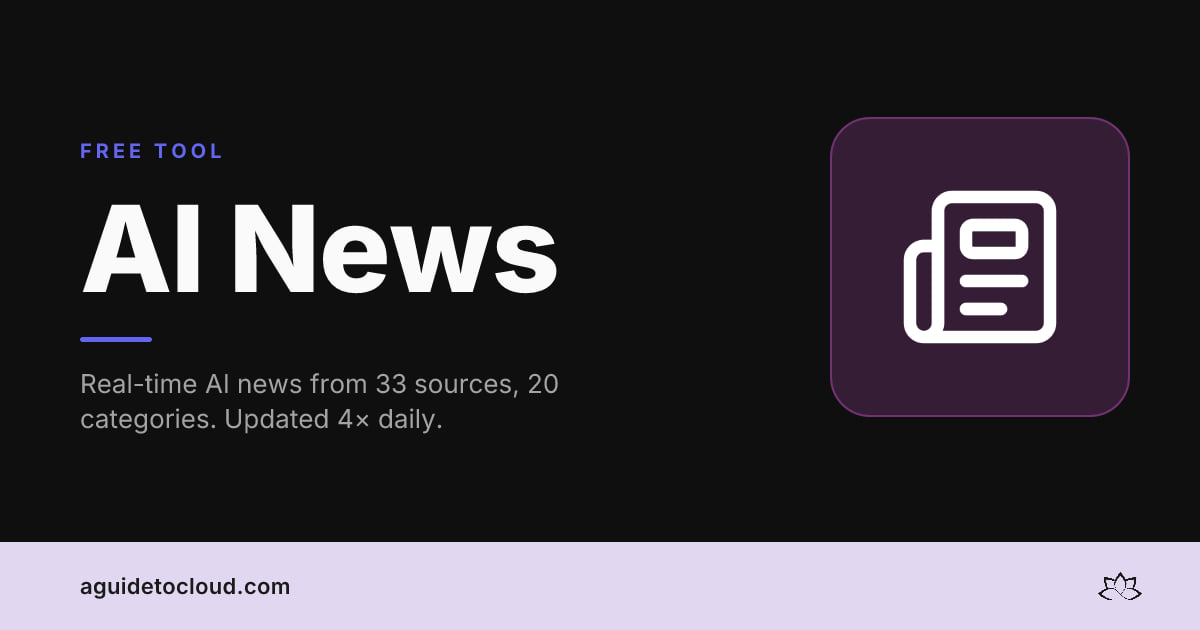
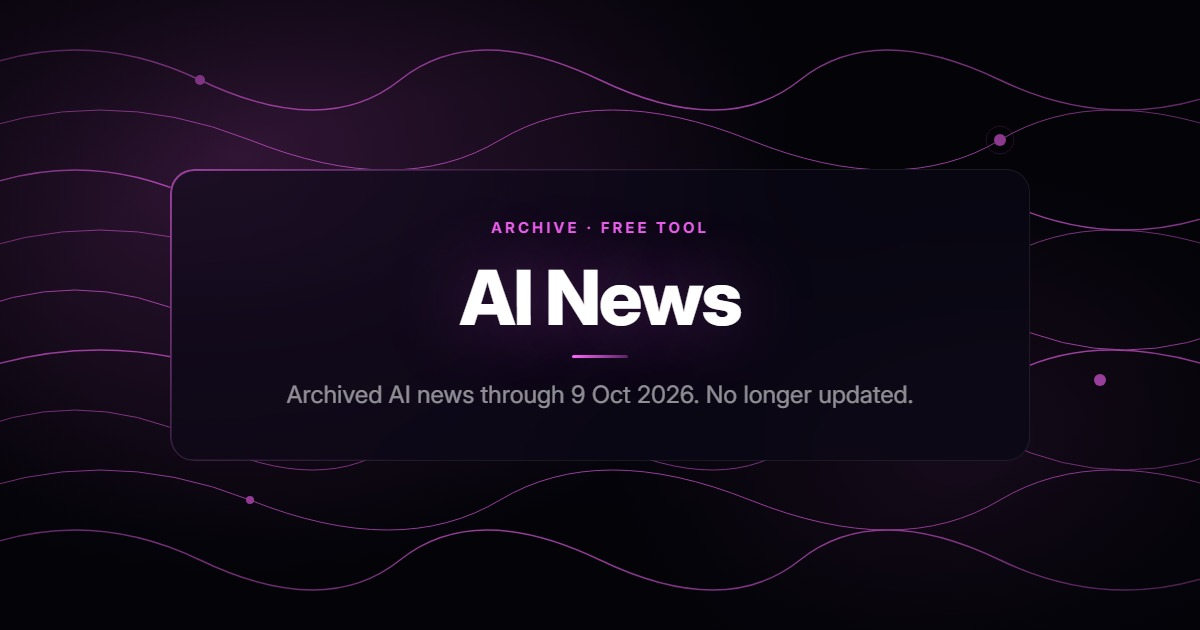
Retire AI News feed and archive historical content
Copilot-Session: 8176c5ff-8d9a-497d-b808-e93973163698

diff --git a/static/js/ainews.js b/static/js/ainews.js
@@ -47,7 +47,7 @@ document.addEventListener('DOMContentLoaded', async function () {
     } catch (e) {
       // If weekly/monthly not available yet, fall back to daily
       if (view !== 'daily') {
-        grid.innerHTML = '<p style="color: var(--text-muted); text-align: center; grid-column: 1 / -1; padding: 3rem;">No ' + view + ' data available yet — showing today\'s news instead.</p>';
+        grid.innerHTML = '<p style="color: var(--text-muted); text-align: center; grid-column: 1 / -1; padding: 3rem;">The archived ' + view + ' collection could not be loaded. Trying the latest available archive instead.</p>';
         setTimeout(function() { loadView('daily'); }, 1500);
       } else {
         grid.innerHTML = '<div style="color: var(--text-muted); text-align: center; grid-column: 1 / -1; padding: 3rem;"><p>Could not load AI News data.</p><button onclick="location.reload()" style="margin-top:0.8rem;padding:0.4rem 1.2rem;border-radius:8px;border:1px solid var(--neon-cyan);background:rgba(102,255,255,0.08);color:var(--neon-cyan);cursor:pointer;font-weight:600">Retry</button></div>';
@@ -83,7 +83,7 @@ document.addEventListener('DOMContentLoaded', async function () {
     }
 
     if (!data || !data.articles) {
-      grid.innerHTML = '<p style="color: var(--text-muted); text-align: center; grid-column: 1 / -1; padding: 3rem;">No articles available yet.</p>';
+      grid.innerHTML = '<p style="color: var(--text-muted); text-align: center; grid-column: 1 / -1; padding: 3rem;">No archived articles are available.</p>';
       return;
     }
 
@@ -129,10 +129,6 @@ document.addEventListener('DOMContentLoaded', async function () {
 // Init share button directly (no MutationObserver needed — tabs are in DOM from Hugo)
   // [REMOVED: share button — UX audit 2026-04-10]
 
-  // Mark last visit timestamp for "new" badges
-  var lastVisit = localStorage.getItem('ainews_last_visit');
-  window.__ainewsLastVisit = lastVisit ? new Date(lastVisit) : null;
-  localStorage.setItem('ainews_last_visit', new Date().toISOString());
 });
 
 // Microsoft-related categories get unlimited articles, others capped at 10
@@ -197,18 +193,16 @@ function isAiRelated(article) {
   return AI_KEYWORDS.some(function (kw) { return text.indexOf(kw) !== -1; });
 }
 
-function timeAgo(dateStr) {
+function formatPublishedDate(dateStr) {
   if (!dateStr) return '';
-  var now = new Date();
   var then = new Date(dateStr);
-  var diffMs = now - then;
-  var mins = Math.floor(diffMs / 60000);
-  if (mins < 60) return mins + 'm ago';
-  var hours = Math.floor(mins / 60);
-  if (hours < 24) return hours + 'h ago';
-  var days = Math.floor(hours / 24);
-  if (days < 7) return days + 'd ago';
-  return then.toLocaleDateString('en-NZ', { month: 'short', day: 'numeric' });
+  if (isNaN(then.getTime())) return '';
+  return then.toLocaleDateString('en-NZ', {
+    day: 'numeric',
+    month: 'short',
+    year: 'numeric',
+    timeZone: 'Pacific/Auckland'
+  });
 }
 
 function escapeHtml(str) {
@@ -313,7 +307,7 @@ function renderNews(data, view) {
   var breakingArticles = articles.filter(function (a) { return a.is_breaking; });
   if (breakingArticles.length > 0) {
     html += '<div class="ainews-breaking" style="grid-column:1/-1">';
-    html += '<span class="ainews-breaking-label">BREAKING</span>';
+    html += '<span class="ainews-breaking-label">Breaking at the time</span>';
     html += '<ul class="ainews-breaking-list">';
     html += breakingArticles.map(function (a) {
       return '<li><a href="' + escapeHtml(a.url || a.link || '#') + '" target="_blank" rel="noopener noreferrer">' + escapeHtml(decodeEntities(a.title)) + '</a></li>';
@@ -325,7 +319,7 @@ function renderNews(data, view) {
   var briefing = data.briefing;
   if (briefing && briefing.length > 0) {
     html += '<div class="ainews-briefing" style="grid-column:1/-1">';
-    html += '<div class="ainews-briefing-header">Today\'s AI Briefing</div>';
+    html += '<div class="ainews-briefing-header">Archived AI briefing</div>';
     html += '<ul class="ainews-briefing-list">';
     briefing.forEach(function (bullet) {
       html += '<li>' + escapeHtml(decodeEntities(bullet)) + '</li>';
@@ -379,10 +373,10 @@ function renderNews(data, view) {
       html += '<div class="ainews-compact-header">';
       html += '<span class="ainews-compact-cat" data-cat="' + escapeHtml(v.cat) + '">' + v.emoji + ' ' + escapeHtml(v.cat) + '</span>';
       html += '<span class="ainews-compact-title" role="button" tabindex="0">';
-      html += (v.isNew ? '<span class="ainews-new-badge">NEW</span> ' : '') + escapeHtml(v.title);
+      html += escapeHtml(v.title);
       if (entry.related.length > 0) html += ' <span class="ainews-cluster-badge">+' + entry.related.length + ' source' + (entry.related.length > 1 ? 's' : '') + '</span>';
       html += '</span>';
-      html += '<span class="ainews-compact-time">' + v.time + '</span>';
+      html += '<span class="ainews-compact-time">' + v.publishedDate + '</span>';
       html += '<button class="ainews-compact-expand" aria-label="Show details" aria-expanded="' + (i < 10 ? 'true' : 'false') + '">' + (i < 10 ? '▲' : '▼') + '</button>';
       html += '</div>';
       html += '<div class="ainews-compact-detail' + (i < 10 ? ' ainews-detail-open' : '') + '"' + (i < 10 ? '' : ' inert') + '>';
@@ -682,13 +676,12 @@ function getArticleVars(article) {
     source: article.source || '',
     url: article.url || article.link || '#',
     title: decodeEntities(article.title || 'Untitled'),
-    time: timeAgo(article.published),
+    publishedDate: formatPublishedDate(article.published),
     readTime: estimateReadTime(summary + ' ' + (article.why_it_matters || '')),
     favicon: getFaviconUrl(article.url || article.link || ''),
     image: article.image || '',
     logo: getLogoUrl(article.url || article.link || ''),
-    cluster: article.cluster || '',
-    isNew: isNewSinceLastVisit(article.published)
+    cluster: article.cluster || ''
   };
 }
 
@@ -713,7 +706,6 @@ function renderHeroCard(article) {
   return '<a href="' + escapeHtml(v.url) + '" target="_blank" rel="noopener noreferrer" class="ainews-card-hero" data-category="' + escapeHtml(v.cat) + '"' + buildClickAttr(v) + '>' +
     '<div class="ainews-thumb-wrap">' + buildThumbHtml(v) + '</div>' +
     '<div class="ainews-card-body">' +
-    (v.isNew ? '<span class="ainews-new-badge">NEW</span>' : '') +
     '<span class="ainews-cat">' + v.emoji + ' ' + escapeHtml(v.cat) + '</span>' +
     '<h3>' + escapeHtml(v.title) + '</h3>' +
     '<p class="ainews-summary">' + escapeHtml(v.summary) + '</p>' +
@@ -721,7 +713,7 @@ function renderHeroCard(article) {
     '<div class="ainews-meta">' +
       (v.favicon ? '<img src="' + v.favicon + '" alt="" class="ainews-favicon" loading="lazy">' : '') +
       '<span class="ainews-source">' + escapeHtml(v.source) + '</span>' +
-      '<span class="ainews-time">' + v.time + '</span>' +
+      '<span class="ainews-time">' + v.publishedDate + '</span>' +
       (v.readTime ? '<span class="ainews-readtime">' + v.readTime + '</span>' : '') +
     '</div></div>' +
   '</a>';
@@ -733,7 +725,6 @@ function renderCard(article) {
   var extraClass = isRumour ? ' ainews-card-rumour' : '';
   return '<a href="' + escapeHtml(v.url) + '" target="_blank" rel="noopener noreferrer" class="ainews-card' + extraClass + '" data-category="' + escapeHtml(v.cat) + '"' + buildClickAttr(v) + '>' +
     '<div class="ainews-thumb-wrap">' + buildThumbHtml(v) + '</div>' +
-    (v.isNew ? '<span class="ainews-new-badge">NEW</span>' : '') +
     '<span class="ainews-cat">' + v.emoji + ' ' + escapeHtml(v.cat) + '</span>' +
     '<h3>' + escapeHtml(v.title) + '</h3>' +
     '<p class="ainews-summary">' + escapeHtml(v.summary) + '</p>' +
@@ -741,32 +732,23 @@ function renderCard(article) {
     '<div class="ainews-meta">' +
       (v.favicon ? '<img src="' + v.favicon + '" alt="" class="ainews-favicon" loading="lazy">' : '') +
       '<span class="ainews-source">' + escapeHtml(v.source) + '</span>' +
-      '<span class="ainews-time">' + v.time + '</span>' +
+      '<span class="ainews-time">' + v.publishedDate + '</span>' +
     '</div>' +
   '</a>';
 }
 
 function renderFreshnessBadge(generatedAt) {
   if (!generatedAt) return;
+  var gen = new Date(generatedAt);
+  if (isNaN(gen.getTime())) return;
   var badge = document.createElement('div');
   badge.className = 'ainews-freshness';
-  var now = new Date();
-  var gen = new Date(generatedAt);
-  var diffMs = now - gen;
-  var hours = Math.floor(diffMs / 3600000);
-  var label, statusClass;
-  if (hours < 6) {
-    label = 'Updated ' + (hours < 1 ? 'just now' : hours + 'h ago');
-    statusClass = 'ainews-fresh';
-  } else if (hours < 18) {
-    label = 'Updated ' + hours + 'h ago';
-    statusClass = 'ainews-stale';
-  } else {
-    var days = Math.floor(hours / 24);
-    label = 'Updated ' + (days < 1 ? hours + 'h' : days + 'd') + ' ago';
-    statusClass = 'ainews-old';
-  }
-  badge.innerHTML = '<span class="ainews-fresh-dot ' + statusClass + '"></span> ' + label;
+  badge.textContent = 'Archive captured ' + gen.toLocaleDateString('en-NZ', {
+    day: 'numeric',
+    month: 'long',
+    year: 'numeric',
+    timeZone: 'Pacific/Auckland'
+  });
   var tabsEl = document.querySelector('.ainews-tabs');
   if (tabsEl) tabsEl.appendChild(badge);
 }
@@ -791,14 +773,6 @@ function getOrderedCategories(articles) {
 
 // === TAB COUNTS ===
 // Removed in V2 audit — tab counts are noise per V3 design principles
-
-// === "NEW" BADGES ===
-function isNewSinceLastVisit(publishedStr) {
-  if (!window.__ainewsLastVisit || !publishedStr) return false;
-  try {
-    return new Date(publishedStr) > window.__ainewsLastVisit;
-  } catch (e) { return false; }
-}
 
 // === CLICK ANALYTICS ===
 function trackArticleClick(category, title) {

diff --git a/layouts/ai-news/list.html b/layouts/ai-news/list.html
@@ -1,9 +1,9 @@
 {{ define "main" }}
 <!-- Pagefind: hidden searchable content for this JS-rendered page -->
 <div data-pagefind-body style="display:none" aria-hidden="true">
-  <h2>AI News — Real-Time AI Industry Updates</h2>
-  <p>Track the latest AI news from Microsoft, OpenAI, Google, Anthropic, Meta, DeepSeek, NVIDIA, Apple, Amazon, and more. Archived: no longer updated. Curated articles across 20 categories as of October 2026.</p>
-  <p>Features: daily and monthly news views. Category filtering by vendor. Full-text search. RSS feed. CSV export. Breaking news detection. 3-tier TLDR summaries explaining why each story matters.</p>
+  <h2>Archived AI News — October 2026 collection</h2>
+  <p>Historical AI news stories collected through 9 October 2026 from Microsoft, OpenAI, Google, Anthropic, Meta, DeepSeek, NVIDIA, Apple, Amazon, and more. This archive is no longer updated.</p>
+  <p>Browse archived stories by vendor, use full-text search, read the RSS archive, or download a CSV.</p>
   <p>Categories: Microsoft Copilot, Azure AI, GitHub Copilot, Copilot Studio, AI Foundry, OpenAI, Anthropic, Google AI, Meta AI, DeepSeek, NVIDIA, Apple AI, Amazon AI, Mistral, Perplexity, xAI.</p>
 </div>
 <link rel="stylesheet" href="/css/ainews.css?v={{ site.Params.cache_version }}">
@@ -35,13 +35,13 @@
 
   {{/* ── Glass Pill Tabs (top-level) ── */}}
   <div class="ainews-top-tabs" role="tablist" aria-label="AI News sections">
-    <button class="ainews-top-tab active" data-tab="main" role="tab" aria-selected="true">News Feed</button>
+    <button class="ainews-top-tab active" data-tab="main" role="tab" aria-selected="true">Archive</button>
     <button class="ainews-top-tab" data-tab="faq" role="tab" aria-selected="false">FAQ</button>
   </div>
 
   <div class="ainews-top-panel active" id="panel-main" role="tabpanel">
-  <div class="ainews-tabs" role="tablist" aria-label="Time period">
-    <button class="ainews-tab active" data-view="monthly" role="tab" aria-selected="true">This Month</button>
+  <div class="ainews-tabs" role="tablist" aria-label="Archive period">
+    <button class="ainews-tab active" data-view="monthly" role="tab" aria-selected="true">October 2026</button>
   </div>
 
   <div class="ainews-grid" id="news-grid">

diff --git a/layouts/partials/ainews-archived-banner.html b/layouts/partials/ainews-archived-banner.html
@@ -1,6 +1,6 @@
 {{/* AI News retired Oct 2026 — keep pages and URLs for SEO, stop the bot. Included by ai-news/list.html and ai-news-category/list.html */}}
 <aside class="ainews-archived" role="note" style="margin: var(--space-4) 0; padding: var(--space-4); background: var(--bg-elevated); border: 1px solid var(--border); border-radius: var(--radius-sm); color: var(--text-muted); font-size: 0.9rem; line-height: 1.6;">
   <strong style="color: var(--text);">This tool is archived.</strong>
-  AI News is no longer updated. It was hard to keep running and there wasn't enough demand. The stories below are the last ones collected in October 2026.
+  AI News is no longer updated. It was hard to keep running and there wasn't enough demand. The stories below were collected through 9 October 2026.
   For current news, see the <a href="/m365-roadmap/">Microsoft 365 Roadmap tracker</a> or the <a href="/blog/">blog</a>.
 </aside>

diff --git a/static/css/ainews.css b/static/css/ainews.css
@@ -1073,25 +1073,6 @@
   100% { background-position: -200% 0; }
 }
 
-/* ── AI NEWS: NEW BADGE ─────────────────── */
-.ainews-new-badge {
-  display: inline-block;
-  background: var(--accent);
-  color: var(--text-primary);
-  font-size: 0.6rem;
-  font-weight: 600;
-  padding: 2px 6px;
-  border-radius: 4px;
-  text-transform: uppercase;
-  letter-spacing: 0.05em;
-  animation: ainews-pulse 2s infinite;
-  margin-bottom: 4px;
-}
-@keyframes ainews-pulse {
-  0%, 100% { opacity: 1; }
-  50% { opacity: 0.6; }
-}
-
 
 /* ── RESPONSIVE: AI NEWS TIERS ──────────── */
 @media (max-width: 768px) {

diff --git a/scripts/og-generator/generate_og.py b/scripts/og-generator/generate_og.py
@@ -237,11 +237,14 @@ CATEGORY_PATTERNS = {
 
 # Internal reuses the Community grid pattern
 CATEGORY_PATTERNS["Internal"] = CATEGORY_PATTERNS["Community"]
+# Archive uses the existing Stay Informed wave pattern.
+CATEGORY_PATTERNS["Archive"] = CATEGORY_PATTERNS["Stay Informed"]
 
 # Pattern opacity per category
 CATEGORY_OPACITIES = {
     "Copilot": 0.55,
     "Stay Informed": 0.58,
+    "Archive": 0.58,
     "Admin": 0.52,
     "Prompt": 0.52,
     "Compare": 0.48,
@@ -253,7 +256,9 @@ CATEGORY_OPACITIES = {
 
 def compute_tool_hash(tool):
     """Hash ALL inputs that affect the OG image."""
-    tmpl_h = hashlib.md5(TEMPLATE_PATH.read_bytes()).hexdigest()[:8]
+    # Keep the template hash stable across Windows and Linux checkouts.
+    template_bytes = TEMPLATE_PATH.read_bytes().replace(b"\r\n", b"\n").replace(b"\r", b"\n")
+    tmpl_h = hashlib.md5(template_bytes).hexdigest()[:8]
     # Include the category pattern SVG in the hash so pattern changes trigger regen
     pattern_svg = CATEGORY_PATTERNS.get(tool["category"], "")
     pat_h = hashlib.md5(pattern_svg.encode()).hexdigest()[:8]

diff --git a/content/ai-news/_index.md b/content/ai-news/_index.md
@@ -1,24 +1,24 @@
 ---
 title: "AI News"
-description: "Archived AI news tracker — Microsoft Copilot, OpenAI, Anthropic, Google AI, Meta & more. No longer updated; last stories collected October 2026."
+description: "Archived AI news from Microsoft Copilot, OpenAI, Anthropic, Google AI, Meta and more. Final stories collected 9 October 2026; no longer updated."
 type: "ai-news"
 layout: "ainews"
 sitemap:
   priority: 0.9
   changefreq: "yearly"
-lastmod: 2026-04-16
+lastmod: 2026-10-09
 images: ["images/og/ai-news.jpg"]
 faq:
-  - question: "How do I use AI News?"
-    answer: "Just open the page — the Daily Briefing at the top gives you a 3-5 bullet summary of the day's biggest stories. Scroll down for headline cards and compact rows, or use the search bar and Smart Filter to find news from a specific vendor like OpenAI or Google."
+  - question: "How do I use the AI News archive?"
+    answer: "Browse the stories collected through 9 October 2026. Use the category pages and available filters to find archived items, or download the collection as a CSV. No new stories are added."
   - question: "How often is the news updated?"
     answer: "AI News is no longer updated. It used to pull from 33 RSS feeds four times a day and cluster related stories together. It was hard to keep running and there wasn't enough demand, so the page is now an archive of the last stories collected in October 2026."
-  - question: "Can I track news from a specific AI company?"
-    answer: "Yes. Click the Smart Filter button to pick vendors like Microsoft, Anthropic, or Meta. You can also browse dedicated category pages for 20 AI topics including M365 Copilot, GitHub Copilot, and AI Foundry."
-  - question: "What does the 'Why it matters' section on each story mean?"
-    answer: "Every article includes an AI-generated summary explaining why the news is relevant to IT pros and cloud practitioners. It helps you quickly decide if a story is worth reading in full."
+  - question: "Can I browse stories from a specific AI company?"
+    answer: "Yes. Use the available filters or browse category pages for topics such as Microsoft Copilot, GitHub Copilot, and AI Foundry."
+  - question: "Are AI-generated summaries included?"
+    answer: "No. The archived collection preserves story titles, sources, and available source excerpts; it does not include AI-generated summaries."
   - question: "Is my data private when using AI News?"
-    answer: "Yes. The news data is pre-fetched by our pipeline and served as static files — your browsing, searches, and filter selections all happen in your browser with no personal data collected."
+    answer: "The archived stories are served as static files. Searching and filtering happen in your browser, and the archive is not updated."
   - question: "Is this tool still being improved?"
     answer: "No. This tool is archived and no longer being developed. For current news, see the Microsoft 365 Roadmap tracker or the blog. You can still share thoughts at aguidetocloud.com/feedback/."
 ---

diff --git a/content/ai-news/anthropic/_index.md b/content/ai-news/anthropic/_index.md
@@ -1,10 +1,10 @@
 ---
 title: "Anthropic News — Claude, MCP Protocol, Glasswing, Safety & Research"
-description: "Latest Anthropic news — Claude models, MCP protocol updates, Project Glasswing, AI safety research, and enterprise partnerships. Archived."
+description: "Archive of Anthropic news through 9 October 2026: Claude models, MCP updates, Project Glasswing, AI safety research, and enterprise partnerships."
 type: "ai-news-category"
 category_filter: "anthropic"
 ---
 
-Follow Anthropic and Claude's development. New model releases, the Model Context Protocol (MCP), Project Glasswing, constitutional AI safety research, and enterprise integration news.
+Browse archived stories collected through 9 October 2026. This collection covers Anthropic and Claude, including model releases, the Model Context Protocol (MCP), Project Glasswing, AI safety research, and enterprise integration.
 
 **See also:** [OpenAI News](/ai-news/openai/) | [Google AI News](/ai-news/google/) | [Microsoft AI News](/ai-news/microsoft/)

diff --git a/content/ai-news/microsoft/_index.md b/content/ai-news/microsoft/_index.md
@@ -1,10 +1,10 @@
 ---
 title: "Microsoft AI News — Copilot, Azure AI, Foundry & Windows AI Updates"
-description: "Daily Microsoft AI news — M365 Copilot updates, Azure AI Foundry releases, Windows AI features, and Microsoft Build announcements. Archived."
+description: "Archive of Microsoft AI news through 9 October 2026: M365 Copilot, Azure AI Foundry, Windows AI, and Microsoft Build announcements."
 type: "ai-news-category"
 category_filter: "microsoft"
 ---
 
-Stay on top of everything Microsoft is doing in AI. From Copilot updates across Word, Excel, and Teams, to Azure AI Foundry model deployments and Windows AI features.
+Browse archived stories collected through 9 October 2026. This collection covers Microsoft AI, including Copilot in Word, Excel, and Teams, Azure AI Foundry, and Windows AI.
 
 **See also:** [M365 Copilot News](/ai-news/m365-copilot/) | [Copilot Studio News](/ai-news/copilot-studio/) | [GitHub Copilot News](/ai-news/github-copilot/) | [AI Foundry News](/ai-news/ai-foundry/)

diff --git a/content/ai-news/m365-copilot/_index.md b/content/ai-news/m365-copilot/_index.md
@@ -1,10 +1,10 @@
 ---
 title: "M365 Copilot News — Microsoft 365 Copilot Updates, Features & Roadmap"
-description: "Latest Microsoft 365 Copilot news — new features, wave updates, licensing changes, agent builder, and monthly roadmap. Archived."
+description: "Archive of Microsoft 365 Copilot news through 9 October 2026: feature releases, wave updates, licensing changes, agent builder, and roadmap."
 type: "ai-news-category"
 category_filter: "m365-copilot"
 ---
 
-Everything about Microsoft 365 Copilot in one place. Feature releases, licensing changes, agent builder updates, prompt engineering tips, and the latest monthly roadmap.
+Browse archived stories collected through 9 October 2026. This collection covers Microsoft 365 Copilot features, licensing, agent builder, prompt engineering, and roadmap updates.
 
 **See also:** [Microsoft AI News](/ai-news/microsoft/) | [Copilot Studio News](/ai-news/copilot-studio/) | [GitHub Copilot News](/ai-news/github-copilot/)

diff --git a/content/ai-news/ai-foundry/_index.md b/content/ai-news/ai-foundry/_index.md
@@ -1,10 +1,10 @@
 ---
 title: "Azure AI Foundry News — Model Catalog, Prompt Flow & AI Platform Updates"
-description: "Latest Azure AI Foundry news — model catalog, prompt flow updates, AI agent SDK releases, and Azure OpenAI changes. Archived."
+description: "Archive of Azure AI Foundry news through 9 October 2026: model catalog additions, prompt flow, AI agent SDK releases, and Azure OpenAI service changes."
 type: "ai-news-category"
 category_filter: "ai-foundry"
 ---
 
-Keep up with Azure AI Foundry and the broader Azure AI platform. Model catalog additions, prompt flow updates, the AI agent SDK, and Azure OpenAI service changes.
+Browse archived stories collected through 9 October 2026. This collection covers Azure AI Foundry and the broader Azure AI platform, including model catalog additions, prompt flow, the AI agent SDK, and Azure OpenAI service changes.
 
 **See also:** [Microsoft AI News](/ai-news/microsoft/) | [OpenAI News](/ai-news/openai/)

diff --git a/content/ai-news/google/_index.md b/content/ai-news/google/_index.md
@@ -1,10 +1,10 @@
 ---
 title: "Google AI News — Gemini, DeepMind, Vertex AI & Android AI Updates"
-description: "Latest Google AI news — Gemini models, DeepMind research, Vertex AI updates, Android AI features, and Google I/O. Archived."
+description: "Archive of Google AI news through 9 October 2026: Gemini models, DeepMind research, Vertex AI, Android AI features, and Google I/O."
 type: "ai-news-category"
 category_filter: "google"
 ---
 
-Stay current with Google's AI ecosystem. Gemini model launches, DeepMind breakthroughs, Vertex AI platform updates, Android AI features, and Google I/O announcements.
+Browse archived stories collected through 9 October 2026. This collection covers Google's AI ecosystem, including Gemini models, DeepMind research, Vertex AI, Android AI features, and Google I/O.
 
 **See also:** [OpenAI News](/ai-news/openai/) | [Anthropic News](/ai-news/anthropic/) | [Meta AI News](/ai-news/meta/)

diff --git a/content/ai-news/nvidia/_index.md b/content/ai-news/nvidia/_index.md
@@ -1,10 +1,10 @@
 ---
 title: "NVIDIA AI News — GPUs, Inference, NIM, Blackwell & Jensen Huang"
-description: "Latest NVIDIA AI news — GPU launches, inference platforms, NIM microservices, Blackwell architecture, and GTC announcements. Archived."
+description: "Archive of NVIDIA AI news through 9 October 2026: GPU launches, inference platforms, NIM, Blackwell architecture, and GTC announcements."
 type: "ai-news-category"
 category_filter: "nvidia"
 ---
 
-Stay on top of NVIDIA's AI infrastructure dominance. New GPU launches, inference platform updates, NIM microservices, Blackwell architecture, and GTC keynotes.
+Browse archived stories collected through 9 October 2026. This collection covers NVIDIA GPUs, inference platforms, NIM microservices, Blackwell architecture, and GTC.
 
 **See also:** [Microsoft AI News](/ai-news/microsoft/) | [Google AI News](/ai-news/google/) | [Amazon AI News](/ai-news/amazon/)
